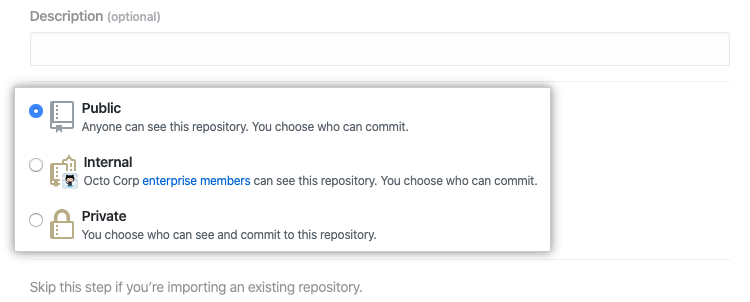
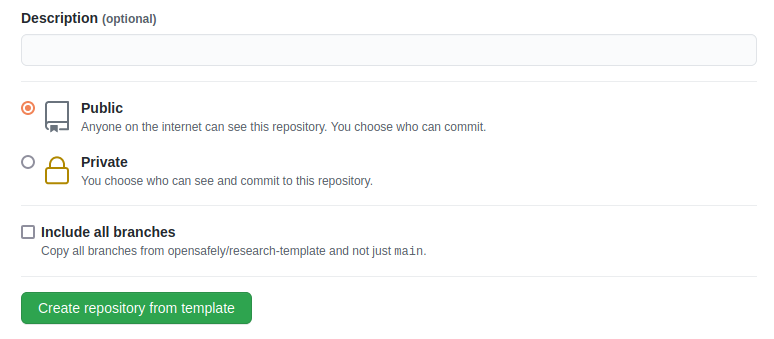
Remove images taken from GitHub
Use images that we have captured instead, and remove images where the
instructions were a near duplicate of GitHub's own. Refer readers to
those instructions instead.

Closes #255.

Changed region(s): [[0.0, 0.2682, 0.7667, 0.9834], [0.0307, 0.0298, 0.2147, 0.0894]]

diff --git a/docs/getting-started.md b/docs/getting-started.md
@@ -155,9 +155,8 @@ account, for developing your own study:
    <br><a href="https://github.com/opensafely/research-template/generate" target="_blank">https://github.com/opensafely/research-template/generate</a>.
 1. Use the **Owner** drop-down menu, and select the account you want to own the
    repository (typically under your own account)
-   ![image](images/create-repository-owner.png)
+   ![image](images/create-repository-owner-name.png)
 1. Type a name for your repository, and an optional description.
-   ![image](images/create-repository-name.png)
 1. Choose a repository visibility.  This would usually be "Public".
    ![image](images/create-repository-public-private.png)
 1. There is an "Include all branches" option: it can be left disabled.
@@ -312,13 +311,8 @@ study.
 
 === "Windows (local)"
 
-    1. Look above the list of files in your new repo for a **Code** button. ![image](images/code-button.png)
-    1. Click **Open with GitHub Desktop** to clone and open the repository with
-       GitHub Desktop. ![image](images/open-with-desktop.png)
-    1. Click **Choose...** and, using Windows Explorer, navigate to a local path
-       where you want to clone the repository.
-       ![image](images/clone-choose-button-url-win.png)
-    1. Click **Clone**  ![image](images/clone-button-url-win.png)
+    Please follow [GitHub's instructions](https://docs.github.com/en/desktop/contributing-and-collaborating-using-github-desktop/adding-and-cloning-repositories/cloning-a-repository-from-github-to-github-desktop)
+    for cloning the study code with GitHub Desktop.
 
 ### Test the blank study on your computer
 
